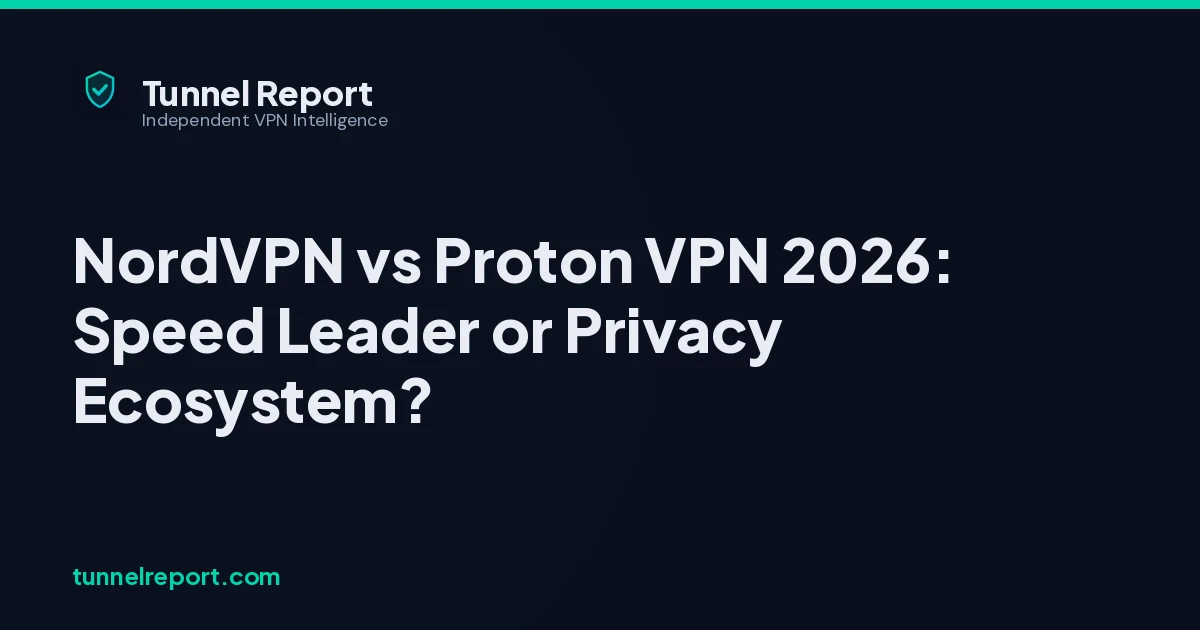
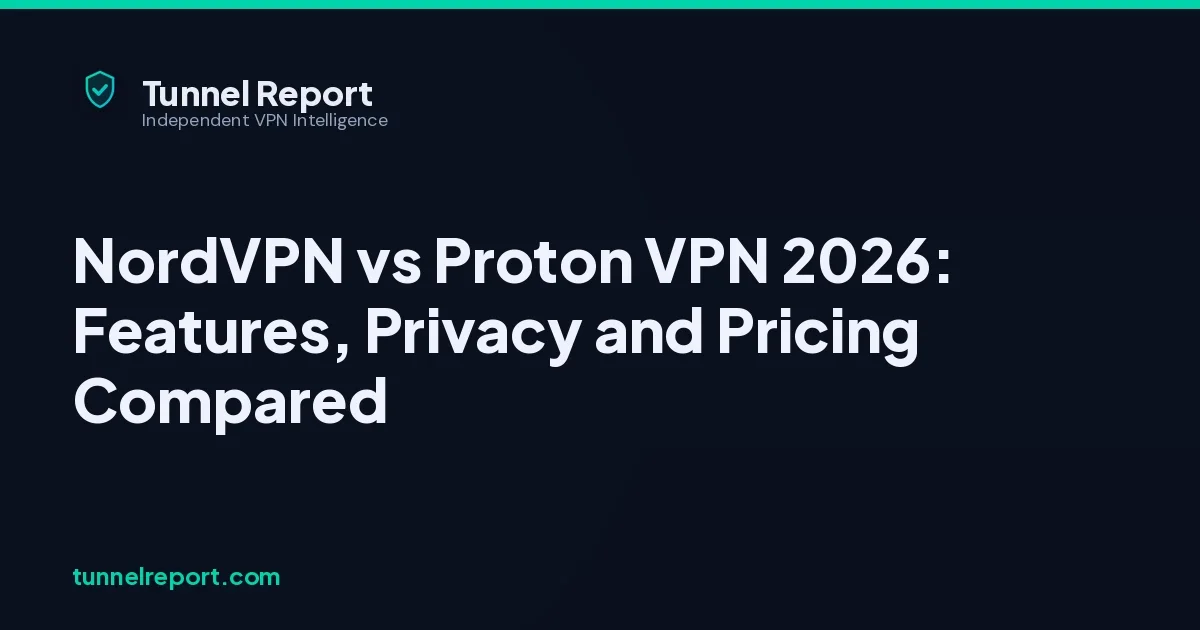
Restore the NordVPN vs Proton VPN WebP share image.
Replace the stale Speed Leader graphic with the approved 1200x630 render and point this page's Open Graph and Twitter images back at that WebP.

Changed region(s): [[0.0617, 0.4825, 0.7708, 0.6032], [0.0617, 0.6032, 0.37, 0.6937]]

diff --git a/lib/seo/share-images.ts b/lib/seo/share-images.ts
@@ -27,6 +27,10 @@ const shareImages: Record<string, ShareImage> = {
     file: "compare-nordvpn-vs-purevpn-og.webp",
     alt: 'Tunnel Report share image on a dark navy background with the teal shield icon and wordmark, headline "NordVPN vs PureVPN 2026: Head-to-Head Comparison", and tunnelreport.com in teal.',
   },
+  "/compare/nordvpn-vs-protonvpn": {
+    file: "compare-nordvpn-vs-protonvpn-og.webp",
+    alt: "NordVPN vs Proton VPN 2026: Features, Privacy and Pricing Compared",
+  },
   "/compare/nordvpn-vs-expressvpn": {
     file: "compare-nordvpn-vs-expressvpn-og.webp",
     alt: 'Tunnel Report share image on a dark navy background with the teal shield icon and wordmark, headline "NordVPN vs ExpressVPN 2026: Which Premium VPN Wins?", and tunnelreport.com in teal.',
@@ -58,24 +62,10 @@ export type ShareImageMeta = {
   width: number;
   height: number;
   alt: string;
-  type: "image/webp" | "image/png";
-};
-
-/**
- * Homepage PNG from `app/opengraph-image.tsx` (1200×630).
- * Used when a page must not serve `og-default.svg` or a stale custom WebP.
- */
-const defaultOgImage: ShareImageMeta = {
-  url: `${siteConfig.url}/opengraph-image`,
-  width: shareImageSize.width,
-  height: shareImageSize.height,
-  alt: 'Tunnel Report share image on a dark navy background with the teal shield icon and wordmark, headline "NordVPN vs Proton VPN 2026: Features, Privacy and Pricing Compared", and tunnelreport.com in teal.',
-  type: "image/png",
+  type: "image/webp";
 };
 
 export function getShareImage(path: string): ShareImageMeta | undefined {
-  if (path === "/compare/nordvpn-vs-protonvpn") return defaultOgImage;
-
   const image = shareImages[path];
   if (!image) return undefined;
 
